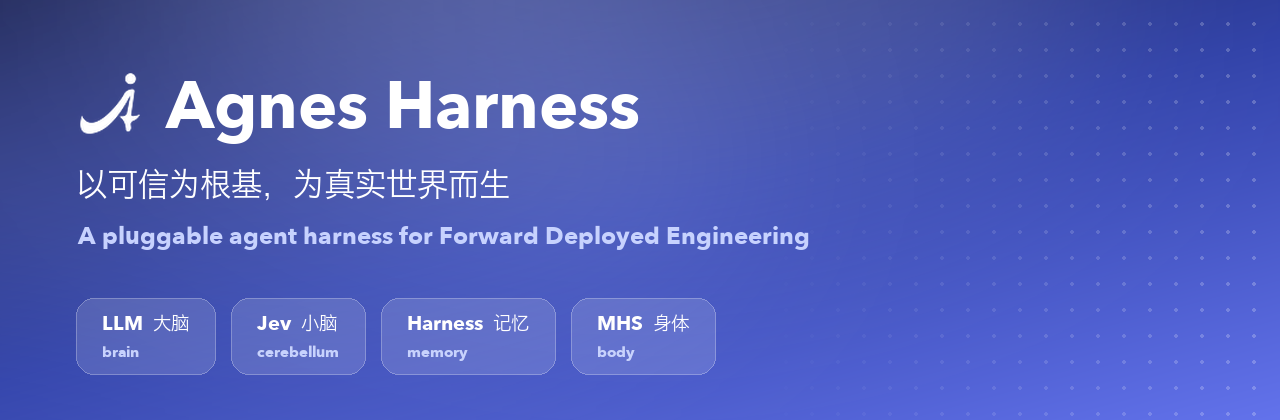
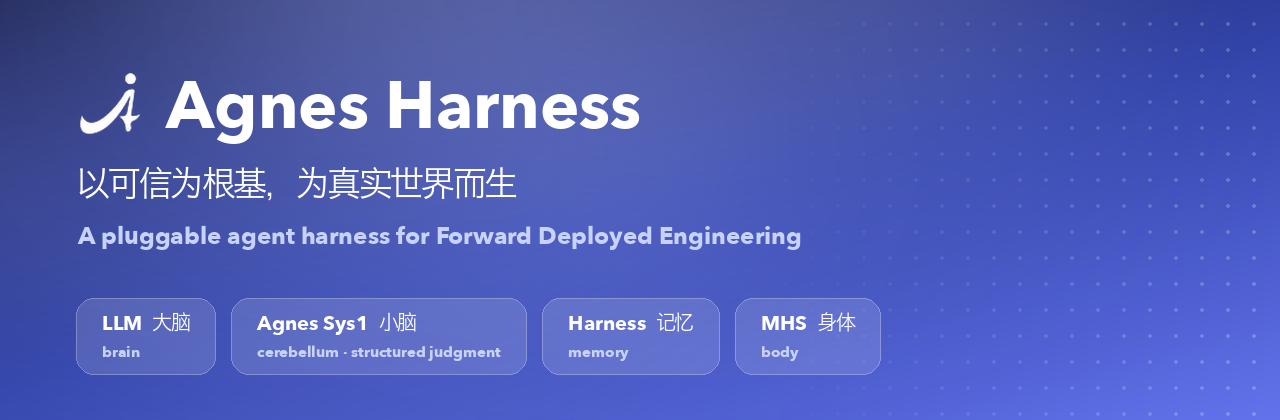
docs: feature Agnes Sys1 in the public overview

diff --git a/README.md b/README.md
@@ -3,7 +3,7 @@
 English | [简体中文](README.zh-CN.md)
 
 <p align="center">
-  <img src="docs/assets/readme/banner.png" alt="Agnes Harness, a pluggable agent harness for Forward Deployed Engineering. LLM is the brain, Jev is the cerebellum, Harness is the memory, MHS is the body." width="100%" />
+  <img src="docs/assets/readme/banner.png" alt="Agnes Harness, a pluggable agent harness for Forward Deployed Engineering. The four roles are LLM as the brain, Agnes Sys1 as the cerebellum, Harness as the memory, and MHS as the body." width="100%" />
 </p>
 
 <div align="center">
@@ -26,11 +26,11 @@ Developer preview (pre-alpha) · [Source build](#run-from-source) · [Apache-2.0
 > **Upgrading from the previous version?** This is a new release with no data migration. Read the [upgrade guide](docs/guide/upgrade-from-previous.md) first: back up and clean up the old environment, then start fresh.
 
 <p align="center">
-  <img src="docs/assets/readme/trailer.webp" alt="Animated introduction: the brain (LLM), the cerebellum (Jev), the memory (Harness) and the body (MHS, connecting devices through AgnesHub) come together as Agnes Harness, one execution foundation for enterprise FDE delivery and physical-world MHS integration" width="100%" />
+  <img src="docs/assets/readme/trailer.webp" alt="Animated introduction to Agnes Harness, with LLM reasoning, Agnes Sys1 judgment, Harness memory, and MHS device integration through AgnesHub." width="100%" />
 </p>
 
 <p align="center">
-  <b>LLM is the brain. Jev is the cerebellum. Harness is the memory. MHS is the body.</b><br />
+  <b>LLM is the brain. Agnes Sys1 is the cerebellum. Harness is the memory. MHS is the body.</b><br />
   <sub>One open-source foundation for business agents, enterprise delivery and the physical world. <a href="#architecture">See the architecture</a></sub>
 </p>
 
@@ -74,14 +74,14 @@ What it is not, so you can choose the right trial:
 
 <h2 id="architecture">Architecture: brain, cerebellum, memory and body</h2>
 
-The brain, cerebellum, memory and body describe AGH's vision: combine reasoning, structured decisions, persistent task context and physical capabilities. Harness is the runtime; Jev and MHS join it as official plugins.
+AGH brings together model reasoning, structured judgments, persistent task context and physical capabilities. **Agnes Sys1** is Agnes's own judgment model and the default choice when adding a side model in AGH. Configure it and enable the judgment features you want, such as checking whether a session title still fits or whether a reply ended before carrying out a promised step. [Set up Agnes Sys1](docs/guide/judgment.md#configure-a-judgment-model-then-enable-detection).
 
-![AGH architecture: LLM as brain, Jev as cerebellum, Harness as memory, and MHS as body, in one runtime that serves enterprise FDE delivery and MHS device integration](docs/assets/architecture.svg)
+![AGH architecture with LLM as the brain, Agnes Sys1 as the cerebellum, Harness as the memory, and MHS as the body. One runtime supports enterprise FDE delivery and MHS device integration.](docs/assets/architecture.svg)
 
 | Role | What it means in AGH | Current scope |
 | --- | --- | --- |
 | **LLM / brain** | Understand requests, reason about the task and propose actions | Model accounts and model-adapter plugins |
-| **Jev / cerebellum** | TypeSafe Jev chooses each step; the conversation model only writes, fills parameters or reviews | Official optional loop plugin `@agnes/jev-loop`, installed from the Marketplace ([guide](docs/guide/jev-loop.md)) |
+| **Agnes Sys1 / cerebellum** | Answers structured questions from task context to support judgment features | Default side-model adapter with domestic test and international gateway presets ([setup](docs/guide/judgment.md#configure-a-judgment-model-then-enable-detection)) |
 | **Harness / memory** | Session history, task state, execution records and reusable methods in Skills | The runtime itself: it runs, records, recovers and governs execution |
 | **MHS / body** | Connect device capabilities so tasks can read physical state and request actions | Official plugin; integration in progress |
 
@@ -246,7 +246,7 @@ AGH is a developer preview.
 | Plugin upgrades that keep running sessions on their pinned code | Available |
 | Agent-drafted Skills and plugins with human review | Available |
 | Webhook triggers, voice in the dialog | Available, opt-in |
-| Jev loop | Official optional plugin |
+| Agnes Sys1 judgment | Available with the optional [Judgment plugin](docs/guide/judgment.md) |
 | MHS device integration | Official plugin, integration in progress |
 | Command sandbox and execution constraints | Platform-dependent |
 | Platforms | macOS and Linux have maintained checks; Windows is not yet tested end to end |

diff --git a/docs/README.zh-CN.md b/docs/README.zh-CN.md
@@ -64,6 +64,7 @@ node "$AGH_SOURCE/agnes.mjs" --new -p 'call plugin_hello_tool {"message":"hello"
 | [Webhook 触发器](guide/webhooks.zh-CN.md) | 通过认证的业务事件创建普通业务 Agent 会话 |
 | [无界面运行与回放](guide/headless.zh-CN.md) | JSONL 事件、固定模型回复比较和批量输入 |
 | [使用本地模型](guide/local-model.zh-CN.md) | 本地 OpenAI-compatible endpoint 和模型发现 |
+| [配置 Agnes Sys1 判断模型](guide/judgment.zh-CN.md#配置判断模型再打开检测) | 配置 AGH 默认的判断旁路模型，按需开启判断功能 |
 | [使用 TypeSafe Jev 做旁路模型调用](guide/typesafe-jev.zh-CN.md) | 配置内置的只接受 payload 的适配器，供循环插件在对话之外调用 |
 | [使用 Jev Agent Loop](guide/jev-loop.zh-CN.md) | 安装并配置由 TypeSafe Jev 选择每一步的可选循环 |
 | [判断插件](guide/judgment.zh-CN.md) | 手动开启意外收工检测，了解发送内容及限制 |
@@ -99,7 +100,7 @@ node "$AGH_SOURCE/agnes.mjs" --new -p 'call plugin_hello_tool {"message":"hello"
 
 - **场景与方法**：[FDE 与应用场景](guide/why-agh.zh-CN.md)。
 - **精确接口**：[命令参考](reference/cli.zh-CN.md) · [配置参考](reference/configuration.zh-CN.md) · [API 与 Schema](reference/api.zh-CN.md)。
-- **旁路模型调用**：[TypeSafe Jev 适配器](guide/typesafe-jev.zh-CN.md) · [Jev Agent Loop](guide/jev-loop.zh-CN.md) · [语音输入与朗读](guide/voice.zh-CN.md) · [编写循环插件](develop/plugins.zh-CN.md)。
+- **旁路模型调用**：[Agnes Sys1 判断](guide/judgment.zh-CN.md#配置判断模型再打开检测) · [TypeSafe Jev 适配器](guide/typesafe-jev.zh-CN.md) · [Jev Agent Loop](guide/jev-loop.zh-CN.md) · [语音输入与朗读](guide/voice.zh-CN.md) · [编写循环插件](develop/plugins.zh-CN.md)。
 - **支持与反馈**：[支持范围](reference/limitations.zh-CN.md) · [反馈与开发协作](develop/contributing.zh-CN.md) · [安全报告](../SECURITY.md)。
 - **更多开发主题**：[皮肤开发](develop/skins.zh-CN.md) · [主题](develop/ui-theme.zh-CN.md) · [构建恢复](guide/build-recovery.zh-CN.md) · [能力清单](reference/capabilities.zh-CN.md)。
 

diff --git a/docs/README.md b/docs/README.md
@@ -70,6 +70,7 @@ node "$AGH_SOURCE/agnes.mjs" --new -p 'call plugin_hello_tool {"message":"hello"
 | [Webhook triggers](guide/webhooks.md) | Start normal business-agent sessions from authenticated business events |
 | [Headless runs and replay](guide/headless.md) | Stream JSONL events, compare fixed model replies and run batches |
 | [Use a local model](guide/local-model.md) | Configure local OpenAI-compatible endpoints and discovery |
+| [Set up Agnes Sys1 for judgment](guide/judgment.md#configure-a-judgment-model-then-enable-detection) | Configure AGH's default judgment side model and enable the features you want |
 | [Use TypeSafe Jev for side model calls](guide/typesafe-jev.md) | Configure the built-in payload-only adapter that loop plugins call outside the conversation |
 | [Use the Jev agent loop](guide/jev-loop.md) | Install and configure the optional loop that lets TypeSafe Jev choose each step |
 | [Judgment](guide/judgment.md) | Opt in to a check for replies that promise to act but end early; review what it sends |
@@ -107,7 +108,7 @@ node "$AGH_SOURCE/agnes.mjs" --new -p 'call plugin_hello_tool {"message":"hello"
 
 - **Scenarios and methods:** [FDE and use cases](guide/why-agh.md).
 - **Exact interfaces:** [CLI reference](reference/cli.md) · [Configuration](reference/configuration.md) · [API and schemas](reference/api.md).
-- **Side model calls:** [TypeSafe Jev adapter](guide/typesafe-jev.md) · [Jev agent loop](guide/jev-loop.md) · [Voice input and read-aloud](guide/voice.md) · [Write a loop plugin](develop/plugins.md).
+- **Side model calls:** [Agnes Sys1 judgment](guide/judgment.md#configure-a-judgment-model-then-enable-detection) · [TypeSafe Jev adapter](guide/typesafe-jev.md) · [Jev agent loop](guide/jev-loop.md) · [Voice input and read-aloud](guide/voice.md) · [Write a loop plugin](develop/plugins.md).
 - **Support and feedback:** [Supported scope](reference/limitations.md) · [Feedback and development](develop/contributing.md) · [Security reports](../SECURITY.md).
 - **More development topics:** [Skins](develop/skins.md) · [Theme](develop/ui-theme.md) · [Build recovery](guide/build-recovery.md) · [Capability matrix](reference/capabilities.md).
 
